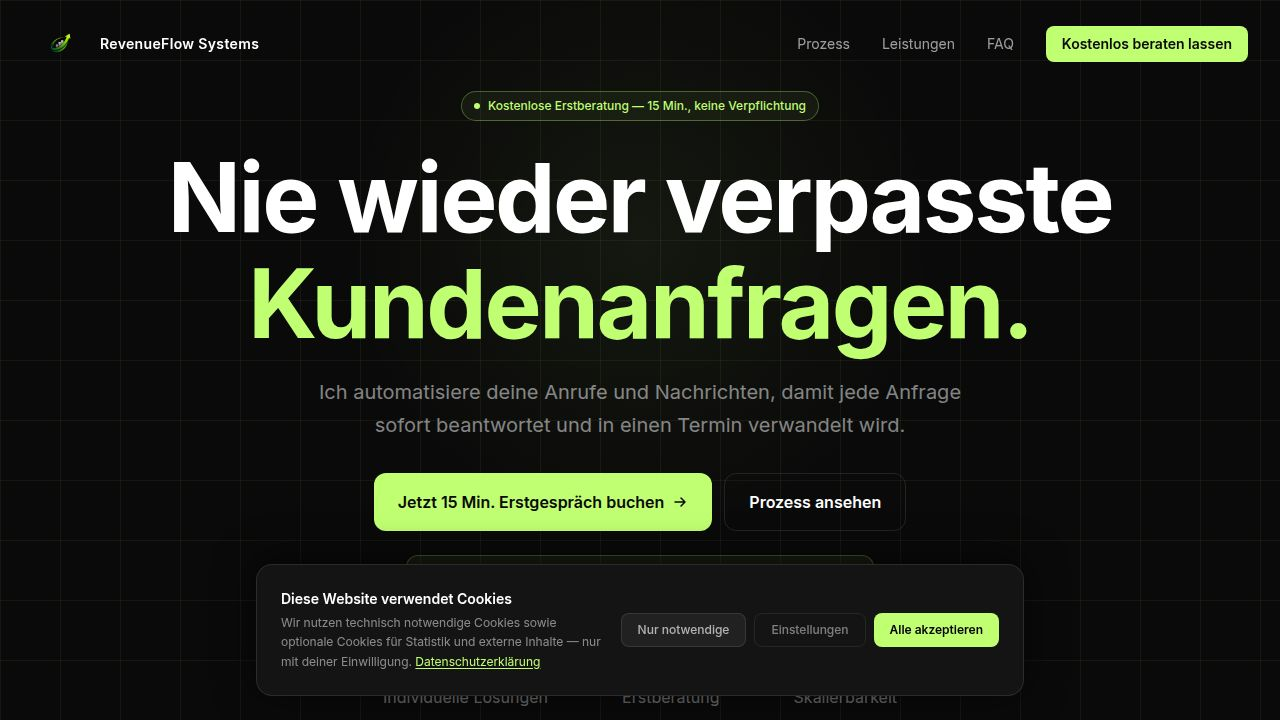
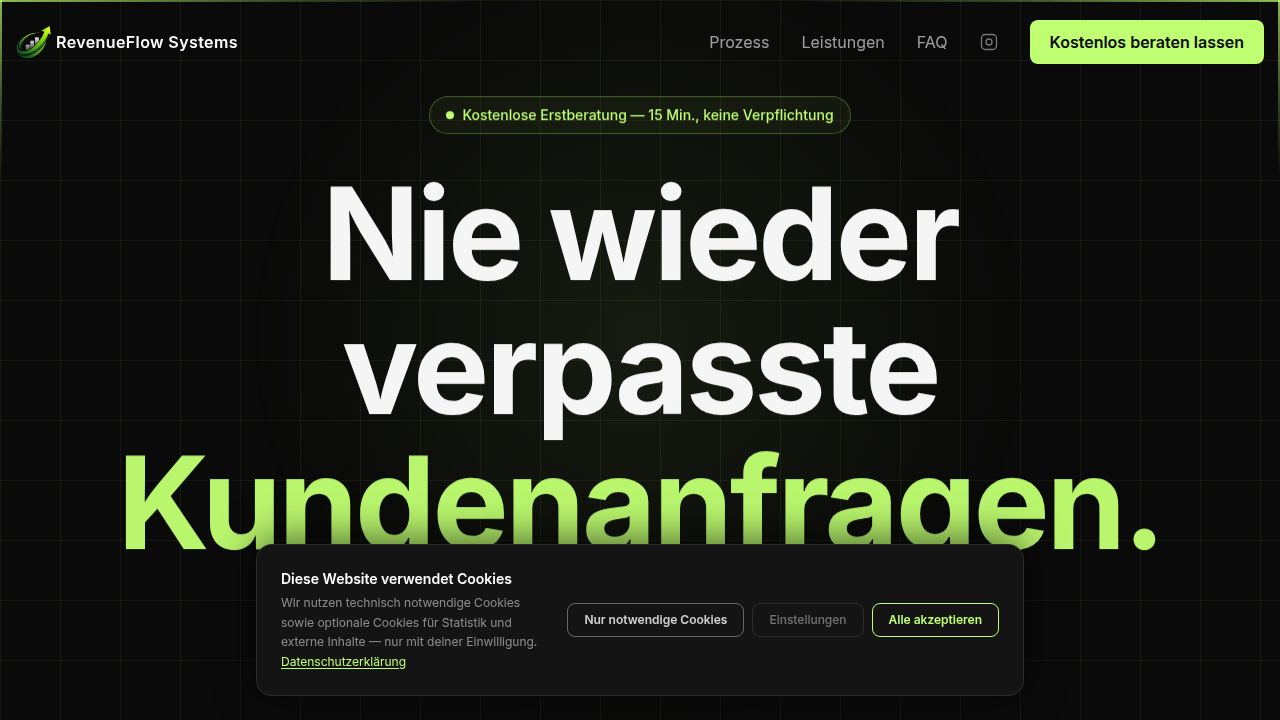
Add animations and visual effects to the website for a modern feel
Introduces animations, scroll reveals, and a pulsing glow effect to various elements on the landing page, including the hero section, services cards, and contact button.

Replit-Commit-Author: Agent
Replit-Commit-Session-Id: b0dfbfd6-070c-4d96-90f5-70c44bdb3ead
Replit-Commit-Checkpoint-Type: full_checkpoint
Replit-Commit-Event-Id: cc16e2a8-d97f-4f99-8b99-f4d29f9d942b
Replit-Commit-Screenshot-Url: https://storage.googleapis.com/screenshot-production-us-central1/d0788a9a-7363-432b-b26e-ec84fa2fdd25/b0dfbfd6-070c-4d96-90f5-70c44bdb3ead/3kaCr5c
Replit-Helium-Checkpoint-Created: true

diff --git a/artifacts/ki-agentur/src/pages/landing.tsx b/artifacts/ki-agentur/src/pages/landing.tsx
@@ -1,4 +1,4 @@
-import { useState, useEffect, useRef } from "react";
+import React, { useState, useEffect, useRef } from "react";
 import { useConsent } from "@/context/ConsentContext";
 
 const ACCENT = "#c1ff72";
@@ -225,40 +225,40 @@ function HeroSection() {
         <div style={{ position: "absolute", bottom: 0, right: 0, width: 2, height: 180, background: `linear-gradient(to top, ${ACCENT} 0%, rgba(193,255,114,0.3) 60%, transparent 100%)`, opacity: 0.7 }} />
       </div>
 
-      {/* Glow orb */}
-      <div
-        className="absolute top-1/3 left-1/2 -translate-x-1/2 -translate-y-1/2 w-[800px] h-[800px] rounded-full pointer-events-none"
-        style={{
-          background:
-            "radial-gradient(circle, rgba(193,255,114,0.07) 0%, transparent 70%)",
-        }}
-      />
+      {/* Glow orb — floats independently of centering transforms */}
+      <div className="absolute top-1/3 left-1/2 -translate-x-1/2 -translate-y-1/2 pointer-events-none">
+        <div
+          className="float-orb w-[800px] h-[800px] rounded-full"
+          style={{ background: "radial-gradient(circle, rgba(193,255,114,0.07) 0%, transparent 70%)" }}
+        />
+      </div>
 
       <div className="relative w-full max-w-6xl mx-auto text-center">
         <div
-          className="inline-flex items-center gap-2 px-4 py-2 rounded-full text-xs sm:text-sm font-medium mb-5 sm:mb-8 border"
+          className="inline-flex items-center gap-2 px-4 py-2 rounded-full text-xs sm:text-sm font-medium mb-5 sm:mb-8 border anim-fade-up"
           style={{
             color: ACCENT,
             borderColor: "rgba(193,255,114,0.3)",
             background: "rgba(193,255,114,0.05)",
+            animationDelay: "0.1s",
           }}
         >
           <span className="w-2 h-2 rounded-full inline-block flex-shrink-0" style={{ background: ACCENT }} />
           <span>Kostenlose Erstberatung — 15 Min., keine Verpflichtung</span>
         </div>
 
-        <h1 className="text-4xl sm:text-6xl md:text-8xl lg:text-9xl font-bold text-white mb-4 sm:mb-6 leading-[1.05] tracking-tight">
+        <h1 className="text-4xl sm:text-6xl md:text-8xl lg:text-9xl font-bold text-white mb-4 sm:mb-6 leading-[1.05] tracking-tight anim-fade-up" style={{ animationDelay: "0.25s" }}>
           Nie wieder verpasste
           <br />
           <span style={{ color: ACCENT }}>Kundenanfragen.</span>
         </h1>
 
-        <p className="text-sm sm:text-xl md:text-2xl text-white/50 max-w-3xl mx-auto mb-6 sm:mb-10 leading-relaxed px-2">
+        <p className="text-sm sm:text-xl md:text-2xl text-white/50 max-w-3xl mx-auto mb-6 sm:mb-10 leading-relaxed px-2 anim-fade-up" style={{ animationDelay: "0.4s" }}>
           Ich automatisiere deine Anrufe und Nachrichten, damit jede Anfrage sofort
           beantwortet und in einen Termin verwandelt wird.
         </p>
 
-        <div className="flex flex-col sm:flex-row gap-3 sm:gap-4 justify-center">
+        <div className="flex flex-col sm:flex-row gap-3 sm:gap-4 justify-center anim-fade-up" style={{ animationDelay: "0.55s" }}>
           <a
             href="#kontakt"
             className="inline-flex items-center justify-center gap-2 px-6 sm:px-8 py-3.5 sm:py-5 rounded-xl font-semibold text-base sm:text-lg transition-all hover:opacity-90 active:scale-95"
@@ -279,10 +279,11 @@ function HeroSection() {
         </div>
 
         <div
-          className="inline-flex items-center gap-2 sm:gap-3 mt-5 sm:mt-8 px-4 sm:px-6 py-3 sm:py-4 rounded-xl whitespace-nowrap"
+          className="inline-flex items-center gap-2 sm:gap-3 mt-5 sm:mt-8 px-4 sm:px-6 py-3 sm:py-4 rounded-xl whitespace-nowrap anim-fade-up"
           style={{
             background: "rgba(193,255,114,0.07)",
             border: "1px solid rgba(193,255,114,0.25)",
+            animationDelay: "0.65s",
           }}
         >
           <svg width="18" height="18" viewBox="0 0 24 24" fill="none" stroke={ACCENT} strokeWidth="2" className="sm:w-[22px] sm:h-[22px] flex-shrink-0">
@@ -294,7 +295,7 @@ function HeroSection() {
           <span className="hidden sm:inline text-sm sm:text-base text-white/40">— Deine Daten sind bei uns sicher</span>
         </div>
 
-        <div className="mt-6 sm:mt-10 grid grid-cols-3 gap-4 sm:flex sm:items-center sm:justify-center sm:gap-14">
+        <div className="mt-6 sm:mt-10 grid grid-cols-3 gap-4 sm:flex sm:items-center sm:justify-center sm:gap-14 anim-fade-up" style={{ animationDelay: "0.75s" }}>
           {[
             { number: "100%", label: "Individuelle Lösungen" },
             { number: "15 Min.", label: "Erstberatung" },
@@ -599,6 +600,32 @@ const comingSoonServices = [
 ];
 
 function ServicesSection() {
+  const [visibleSvc, setVisibleSvc] = useState<Set<number>>(new Set());
+  const [visibleCs, setVisibleCs] = useState<Set<number>>(new Set());
+  const svcRefs = useRef<(HTMLDivElement | null)[]>([]);
+  const csRefs = useRef<(HTMLDivElement | null)[]>([]);
+
+  useEffect(() => {
+    const observers: IntersectionObserver[] = [];
+    svcRefs.current.forEach((el, i) => {
+      if (!el) return;
+      const obs = new IntersectionObserver(([e]) => {
+        if (e.isIntersecting) setVisibleSvc(prev => new Set([...prev, i]));
+      }, { threshold: 0.1 });
+      obs.observe(el);
+      observers.push(obs);
+    });
+    csRefs.current.forEach((el, i) => {
+      if (!el) return;
+      const obs = new IntersectionObserver(([e]) => {
+        if (e.isIntersecting) setVisibleCs(prev => new Set([...prev, i]));
+      }, { threshold: 0.1 });
+      obs.observe(el);
+      observers.push(obs);
+    });
+    return () => observers.forEach(o => o.disconnect());
+  }, []);
+
   return (
     <section id="leistungen" className="relative py-24 md:py-40 px-5 md:px-8 lg:px-16">
       <SectionCorners />
@@ -625,14 +652,16 @@ function ServicesSection() {
         </div>
 
         <div className="grid grid-cols-1 md:grid-cols-2 lg:grid-cols-3 gap-8">
-          {services.map((service) => (
+          {services.map((service, i) => (
             <div
+              ref={(el) => { svcRefs.current[i] = el; }}
               key={service.title}
-              className="group p-8 rounded-2xl transition-all duration-300 hover:border-white/15 cursor-default"
+              className={`group p-8 rounded-2xl transition-all duration-300 cursor-default reveal-card${visibleSvc.has(i) ? ' is-visible' : ''}`}
               style={{
                 background: "hsl(0 0% 7%)",
                 border: "1px solid rgba(255,255,255,0.06)",
-              }}
+                '--reveal-delay': `${i * 0.08}s`,
+              } as React.CSSProperties}
               onMouseEnter={(e) => {
                 (e.currentTarget as HTMLDivElement).style.background = "hsl(0 0% 9%)";
                 (e.currentTarget as HTMLDivElement).style.borderColor = "rgba(193,255,114,0.2)";
@@ -667,14 +696,17 @@ function ServicesSection() {
             </div>
           ))}
 
-          {comingSoonServices.map((service) => (
+          {comingSoonServices.map((service, i) => (
             <div
+              ref={(el) => { csRefs.current[i] = el; }}
               key={service.title}
               className="p-8 rounded-2xl cursor-default"
               style={{
                 background: "hsl(0 0% 5%)",
                 border: "1px solid rgba(255,255,255,0.04)",
-                opacity: 0.55,
+                opacity: visibleCs.has(i) ? 0.55 : 0,
+                transform: visibleCs.has(i) ? "translateY(0)" : "translateY(20px)",
+                transition: `opacity 0.55s ease ${i * 0.08 + 0.05}s, transform 0.55s ease ${i * 0.08 + 0.05}s`,
               }}
             >
               <div className="text-5xl mb-5 grayscale">{service.icon}</div>
@@ -757,6 +789,22 @@ const testimonials = [
 ];
 
 function TestimonialsSection() {
+  const [visibleCards, setVisibleCards] = useState<Set<number>>(new Set());
+  const cardRefs = useRef<(HTMLDivElement | null)[]>([]);
+
+  useEffect(() => {
+    const observers: IntersectionObserver[] = [];
+    cardRefs.current.forEach((el, i) => {
+      if (!el) return;
+      const obs = new IntersectionObserver(([e]) => {
+        if (e.isIntersecting) setVisibleCards(prev => new Set([...prev, i]));
+      }, { threshold: 0.15 });
+      obs.observe(el);
+      observers.push(obs);
+    });
+    return () => observers.forEach(o => o.disconnect());
+  }, []);
+
   return (
     <section
       id="testimonials"
@@ -786,14 +834,18 @@ function TestimonialsSection() {
         </div>
 
         <div className="grid grid-cols-1 md:grid-cols-2 gap-6 md:gap-8">
-          {testimonials.map((t) => (
+          {testimonials.map((t, i) => (
             <div
+              ref={(el) => { cardRefs.current[i] = el; }}
               key={t.company}
               className="p-8 rounded-2xl flex flex-col gap-5"
               style={{
                 background: "hsl(0 0% 7%)",
                 border: "1px solid rgba(193,255,114,0.25)",
                 boxShadow: "0 0 32px rgba(193,255,114,0.05)",
+                opacity: visibleCards.has(i) ? 1 : 0,
+                transform: visibleCards.has(i) ? "translateY(0)" : "translateY(24px)",
+                transition: `opacity 0.6s ease ${i * 0.15}s, transform 0.6s ease ${i * 0.15}s`,
               }}
             >
               {/* Stars */}
@@ -1122,7 +1174,7 @@ function ContactSection() {
             <button
               type="submit"
               disabled={!form.privacy || submitting}
-              className="w-full py-5 rounded-xl font-semibold text-lg transition-all active:scale-95 mt-1 disabled:opacity-40 disabled:cursor-not-allowed"
+              className={`w-full py-5 rounded-xl font-semibold text-lg transition-all active:scale-95 mt-1 disabled:opacity-40 disabled:cursor-not-allowed${!form.privacy || submitting ? '' : ' pulse-glow-btn'}`}
               style={{ background: ACCENT, color: "#0a0a0a" }}
             >
               {submitting ? "Wird gesendet…" : "Kostenloses Erstgespräch anfragen →"}

diff --git a/artifacts/ki-agentur/src/index.css b/artifacts/ki-agentur/src/index.css
@@ -229,6 +229,43 @@
   text-shadow: 0 0 40px rgba(193, 255, 114, 0.4);
 }
 
+/* ============ Animations ============ */
+@keyframes fadeInUp {
+  from { opacity: 0; transform: translateY(28px); }
+  to   { opacity: 1; transform: translateY(0); }
+}
+
+@keyframes floatY {
+  0%, 100% { transform: translateY(0px); }
+  50%       { transform: translateY(-18px); }
+}
+
+@keyframes pulseGlow {
+  0%, 100% { box-shadow: 0 0 0 0   rgba(193, 255, 114, 0.3); }
+  50%       { box-shadow: 0 0 0 12px rgba(193, 255, 114, 0); }
+}
+
+.anim-fade-up {
+  opacity: 0;
+  animation: fadeInUp 0.7s cubic-bezier(0.22, 1, 0.36, 1) forwards;
+}
+
+.float-orb {
+  animation: floatY 8s ease-in-out infinite;
+}
+
+.pulse-glow-btn {
+  animation: pulseGlow 2.8s ease-in-out infinite;
+}
+
+.reveal-card {
+  opacity: 0;
+}
+
+.reveal-card.is-visible {
+  animation: fadeInUp 0.55s cubic-bezier(0.22, 1, 0.36, 1) var(--reveal-delay, 0s) both;
+}
+
 /* Smooth scrolling */
 body {
   overflow-x: hidden;
